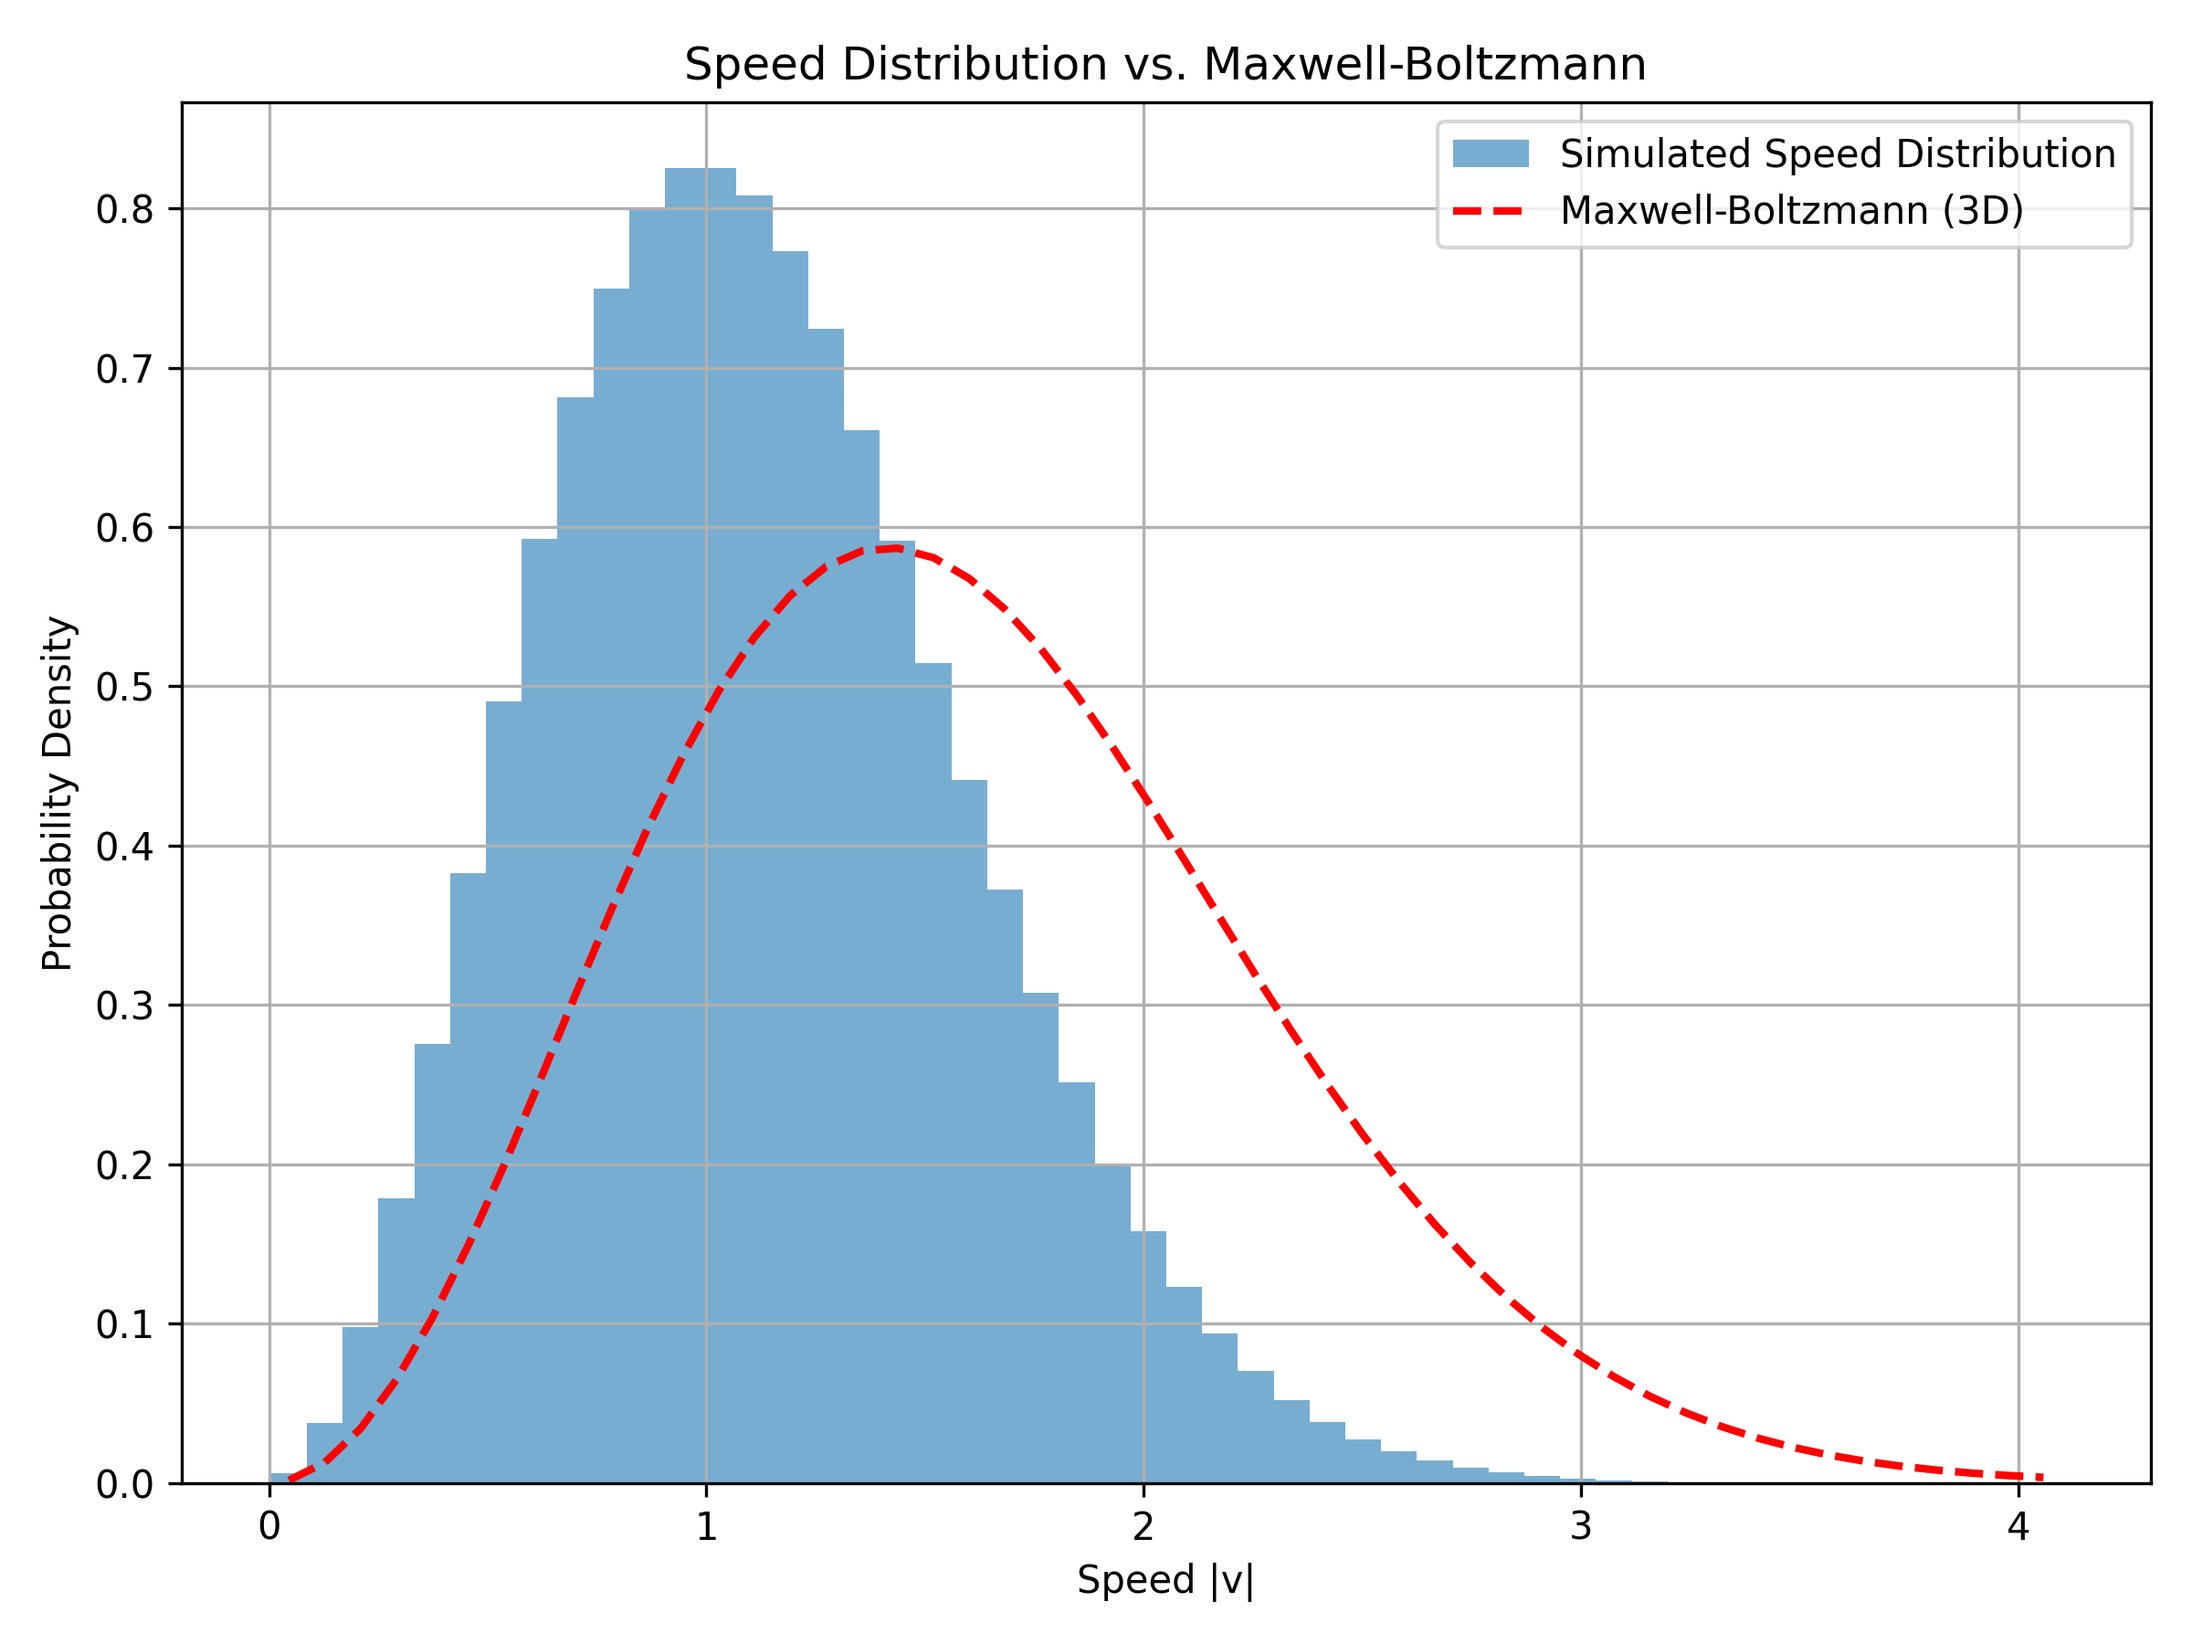
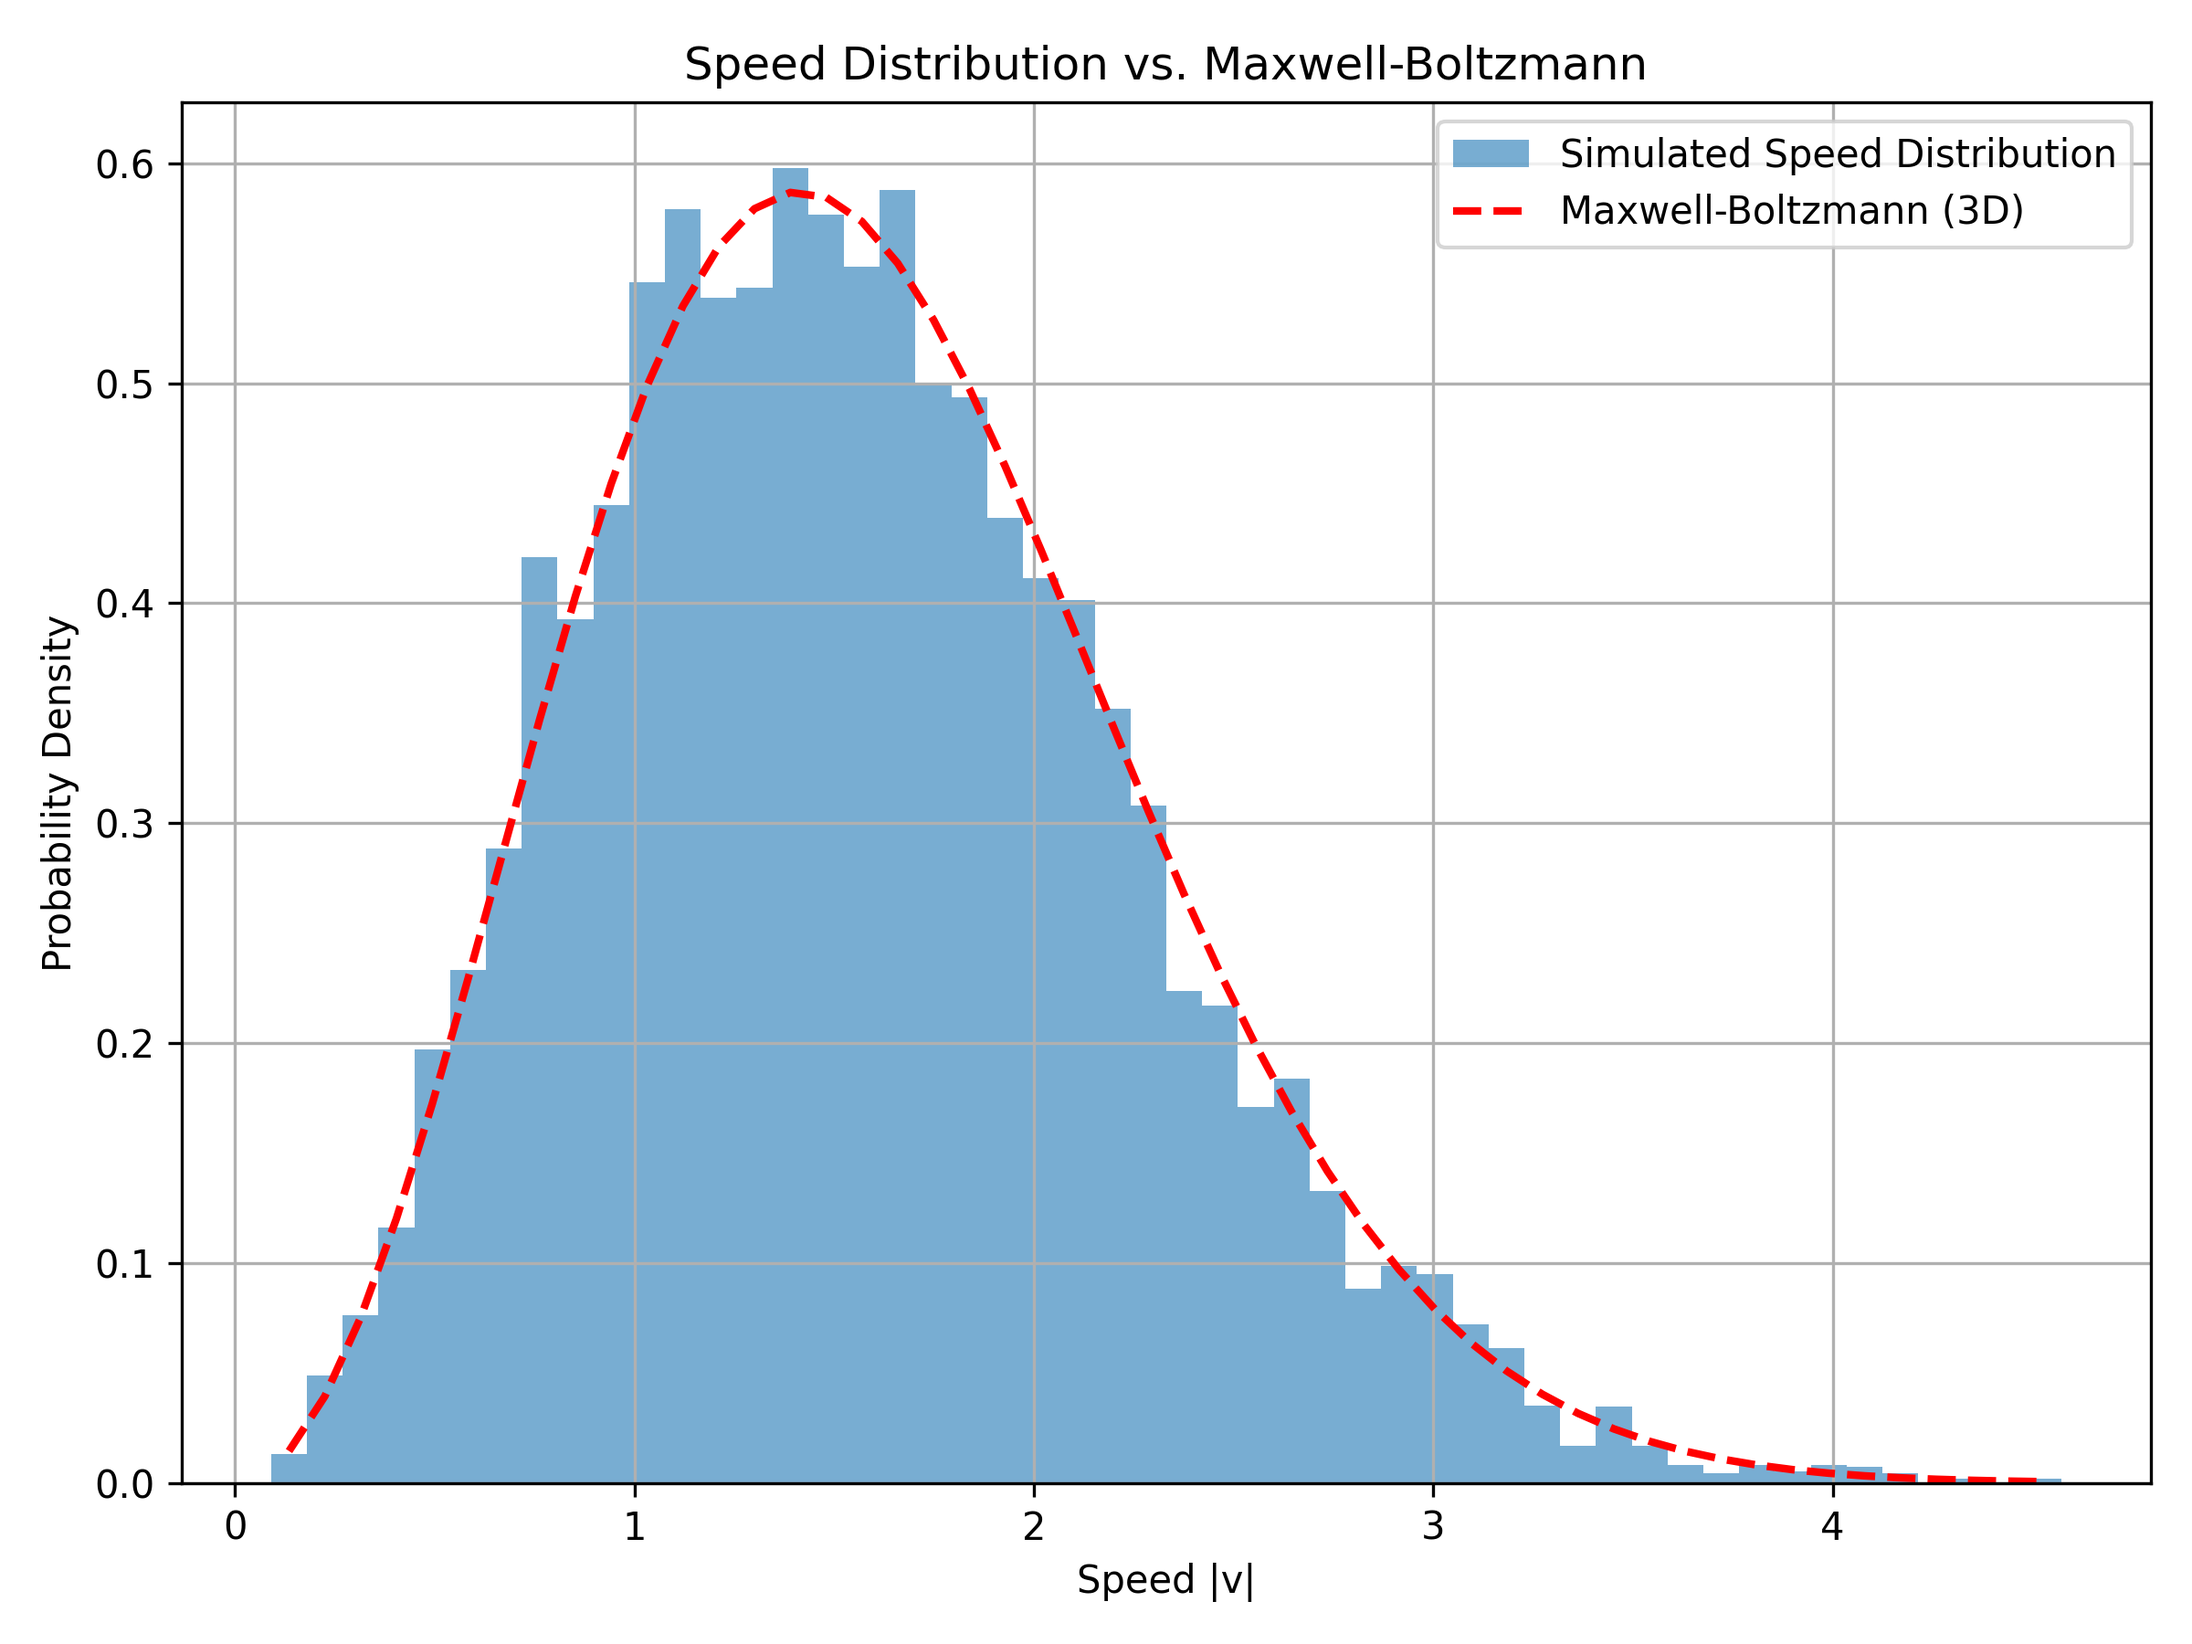
added new data

diff --git a/SMP_1_Sheet_4/solutions/analysise_msd.py b/SMP_1_Sheet_4/solutions/analysise_msd.py
@@ -1,0 +1,48 @@
+import pickle
+import numpy as np
+import matplotlib.pyplot as plt
+from tqdm import tqdm
+
+# Load data
+data = pickle.load(open("/home/niklas/Desktop/Uni_Niklas/Semester_5/SimulationMethodsPhysicsOne/SMP_1_Sheet_4/solutions/data_langevin.pkl", "rb"))
+positions = data["particle_positions"]  # shape: (time_steps, N, 3)
+DT = data["DT"]
+N = positions.shape[1]
+time_steps = positions.shape[0]
+
+# Define the dimensionality d (3 for 3D)
+d = 3
+
+# Compute MSD for a range of delta t values
+max_lag = time_steps // 2  # for example, only go up to half the trajectory length
+msd = []
+msd_err = []
+lags = np.arange(1, max_lag)  # lag times in units of simulation steps
+
+for lag in tqdm(lags):
+    displacements = positions[lag:] - positions[:-lag]  # shape: (time_steps - lag, N, 3)
+    sq_displacements = np.sum(displacements**2, axis=2)  # sum over x,y,z => shape: (time_steps - lag, N)
+    
+    # Flatten over all particles and all valid time segments
+    sq_disp_flat = sq_displacements.flatten()
+    
+    # Mean and standard error
+    mean_sq_disp = np.mean(sq_disp_flat)
+    std_sq_disp = np.std(sq_disp_flat, ddof=1)
+    error = std_sq_disp / np.sqrt(len(sq_disp_flat))
+    
+    msd.append(mean_sq_disp)
+    msd_err.append(error)
+
+msd = np.array(msd)
+msd_err = np.array(msd_err)
+
+# Convert lag steps to actual time: lag_time = lag * DT
+time_lags = lags * DT
+
+# Plot MSD with error bars
+plt.errorbar(time_lags, msd, yerr=msd_err, fmt='o', capsize=3)
+plt.xlabel('Time lag')
+plt.ylabel('MSD')
+plt.title('Mean Squared Displacement (Langevin)')
+plt.show()

diff --git a/SMP_1_Sheet_4/solutions/analyze.py b/SMP_1_Sheet_4/solutions/analyze.py
@@ -4,7 +4,7 @@ import matplotlib.pyplot as plt
 
 # Load data
 data = pickle.load(open("/home/niklas/Desktop/Uni_Niklas/Semester_5/SimulationMethodsPhysicsOne/SMP_1_Sheet_4/solutions/data_anderson.pkl", "rb"))
-data = pickle.load(open("/home/niklas/Desktop/Uni_Niklas/Semester_5/SimulationMethodsPhysicsOne/SMP_1_Sheet_4/solutions/data_langevin.pkl", "rb"))
+# data = pickle.load(open("/home/niklas/Desktop/Uni_Niklas/Semester_5/SimulationMethodsPhysicsOne/SMP_1_Sheet_4/solutions/data_langevin.pkl", "rb"))
 
 temperature = data["temperature"]         # shape: (n_steps,)
 particle_speeds = data["particle_speeds"] # shape: (n_steps, N)
